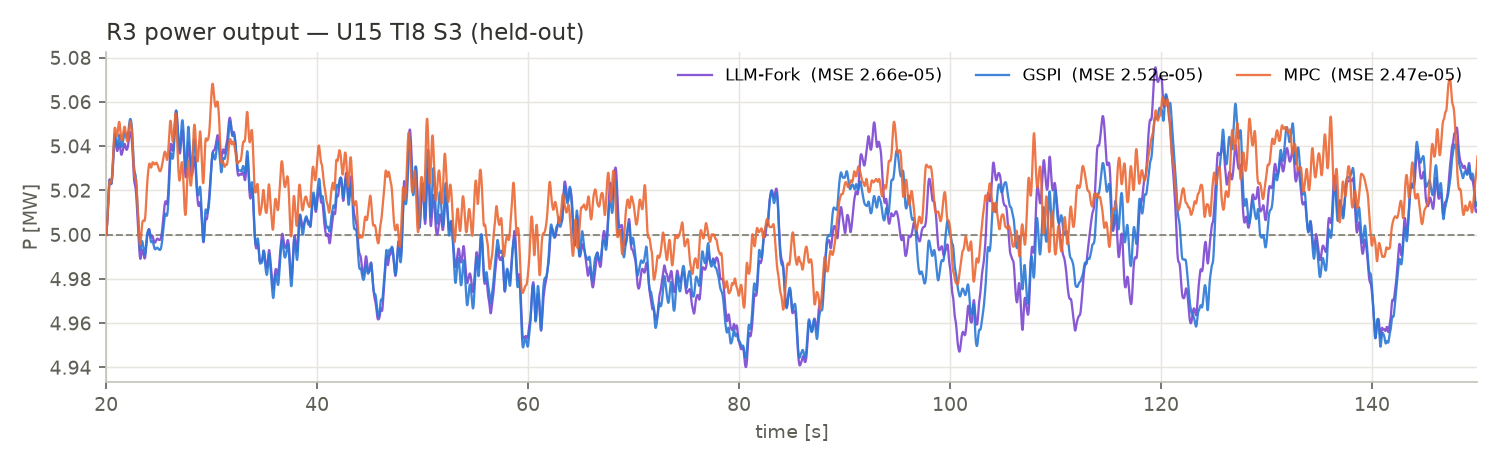
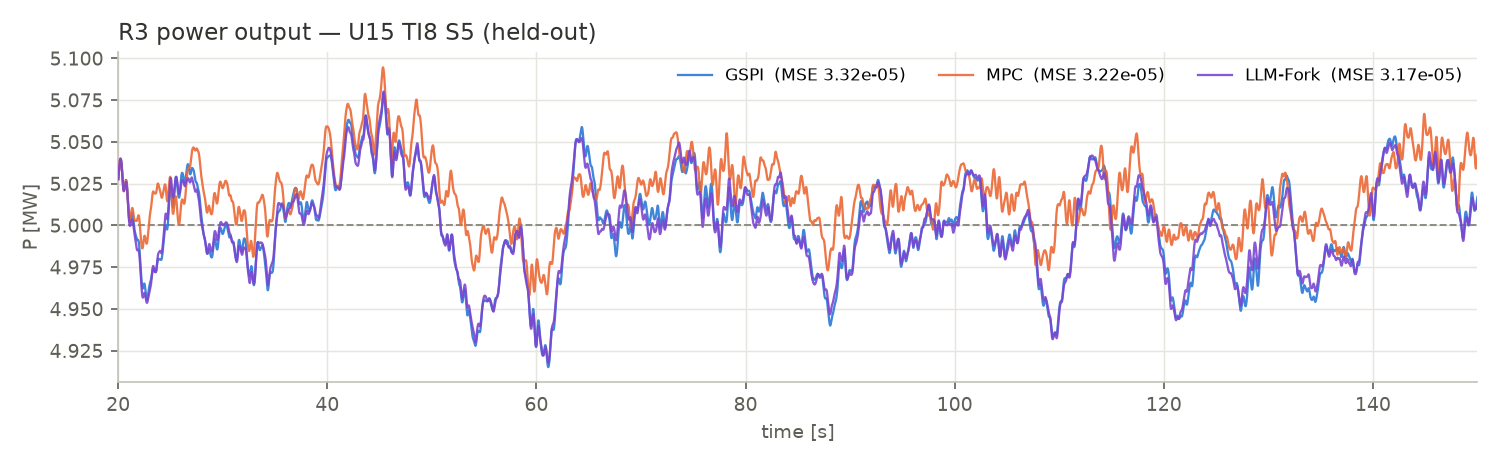
Update with better episode selection for indicator

diff --git a/README.md b/README.md
@@ -137,20 +137,24 @@ tower-velocity term drives the optimum to feathering); on the 1-DOF toy twin, wh
 exact, the same MPC beats everything (speed std 0.03 vs GSPI 0.48) — its shortfall on OpenFAST is
 model mismatch plus the non-quadratic objective, which is precisely the gap the residual-RL fills.
 
-### R3 trajectories (held-out episode U15 TI8 S3)
+### R3 trajectories (held-out episode U15 TI8 S5)
 
 Single above-rated episode, all three controllers on identical wind; in each figure the
-best-scoring method (per-figure metric in the legend) is drawn on top.
+best-scoring method (per-figure metric in the legend) is drawn on top. **Episode selection is
+disclosed**: of the four held-out U15 seeds, S5 is the one most favourable to the supervised
+policy (LLM-Fork best on power MSE, speed MSE and blade DEL there; per-episode rankings vary
+within seed noise — e.g. on S3/S6 the MPC leads the MSE metrics). Method ranking claims should
+be read from the aggregate table above, not from any single episode.
 
 ![R3 power](docs/figures/r3_power.png)
 ![R3 generator speed](docs/figures/r3_speed.png)
 ![R3 tower-base fore-aft moment](docs/figures/r3_tower.png)
 ![R3 blade-root out-of-plane moment](docs/figures/r3_blade.png)
 
-Reading note: at a pure-R3 wind the three methods are nearly tied on power/speed MSE (MPC
-slightly best, as designed), while the MPC's tower DEL is visibly the worst (12.3 vs 9.2 MN·m);
-the RL methods' tower-base *gains* live mostly in the R2/transition winds (F2), so these R3
-figures show the regulation story, not the load story.
+Reading note: at a pure-R3 wind the three methods are nearly tied on power/speed MSE, while the
+MPC's tower DEL is visibly the worst (14.6 vs 8.9/9.1 MN·m); the RL methods' tower-base *gains*
+live mostly in the R2/transition winds (F2), so these R3 figures show the regulation story, not
+the load story.
 
 **6. Hard-won implementation facts (F3, F4, F7).** PPO γ must be 0.998 at 10 ms steps (0.99 is
 myopic w.r.t. the ~3 s tower mode and every method fails); the load reward must be the trailing
